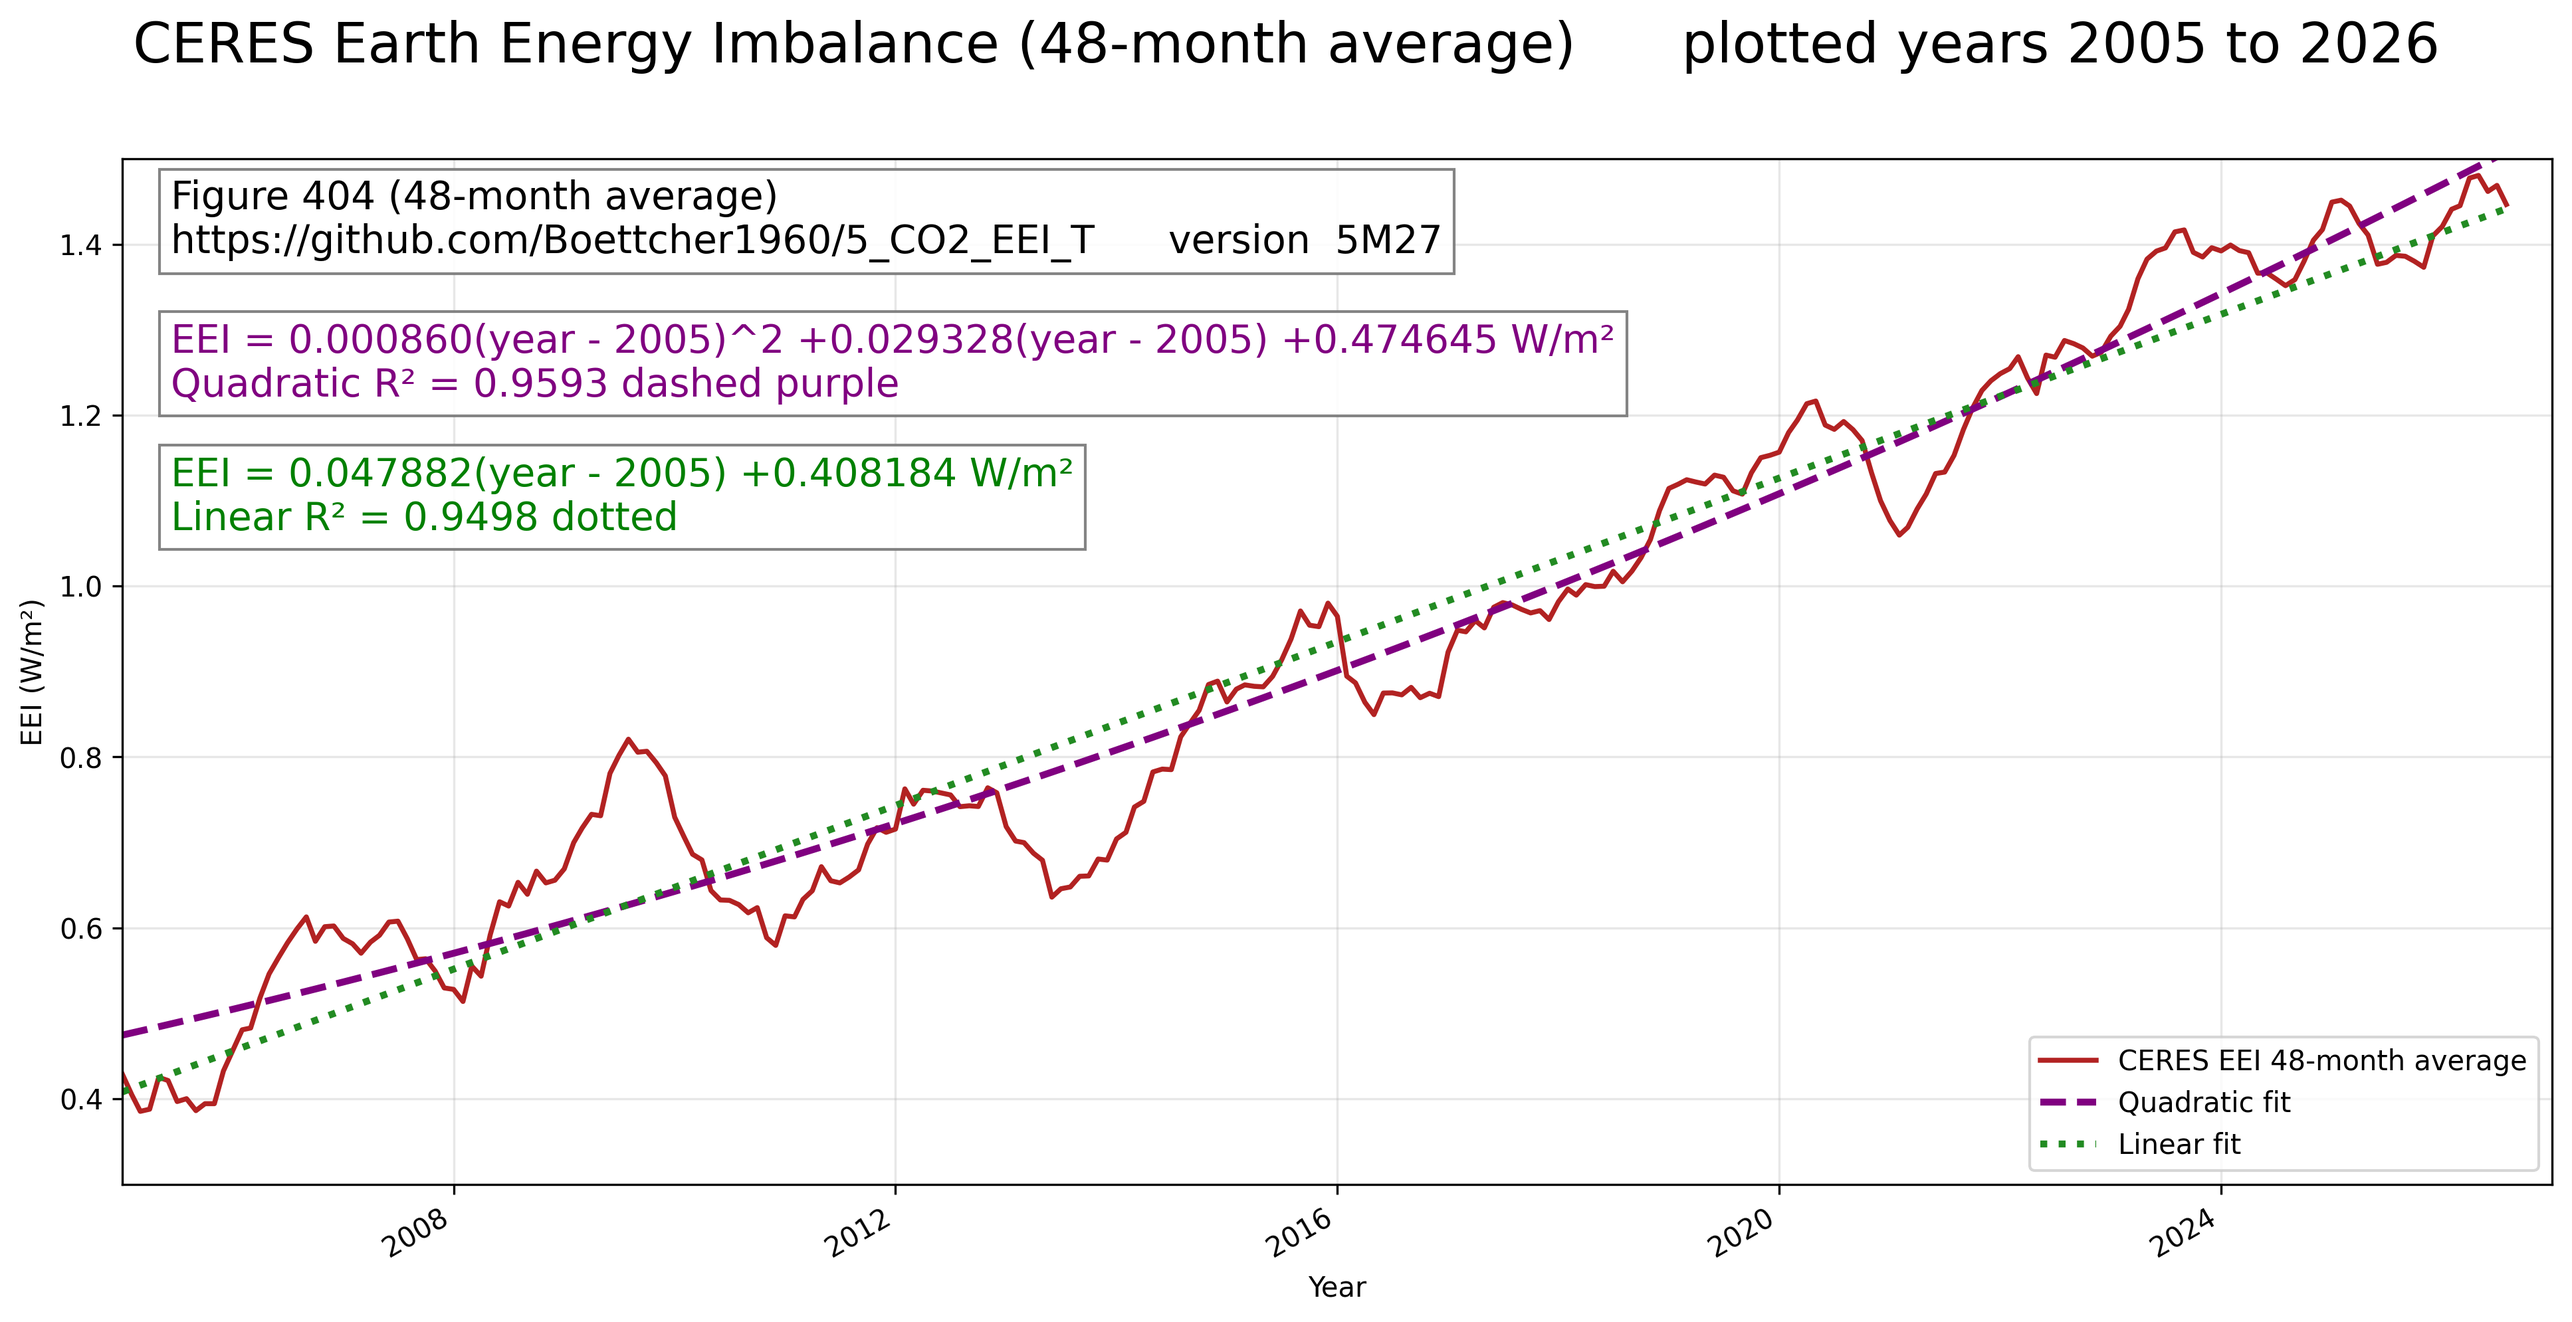
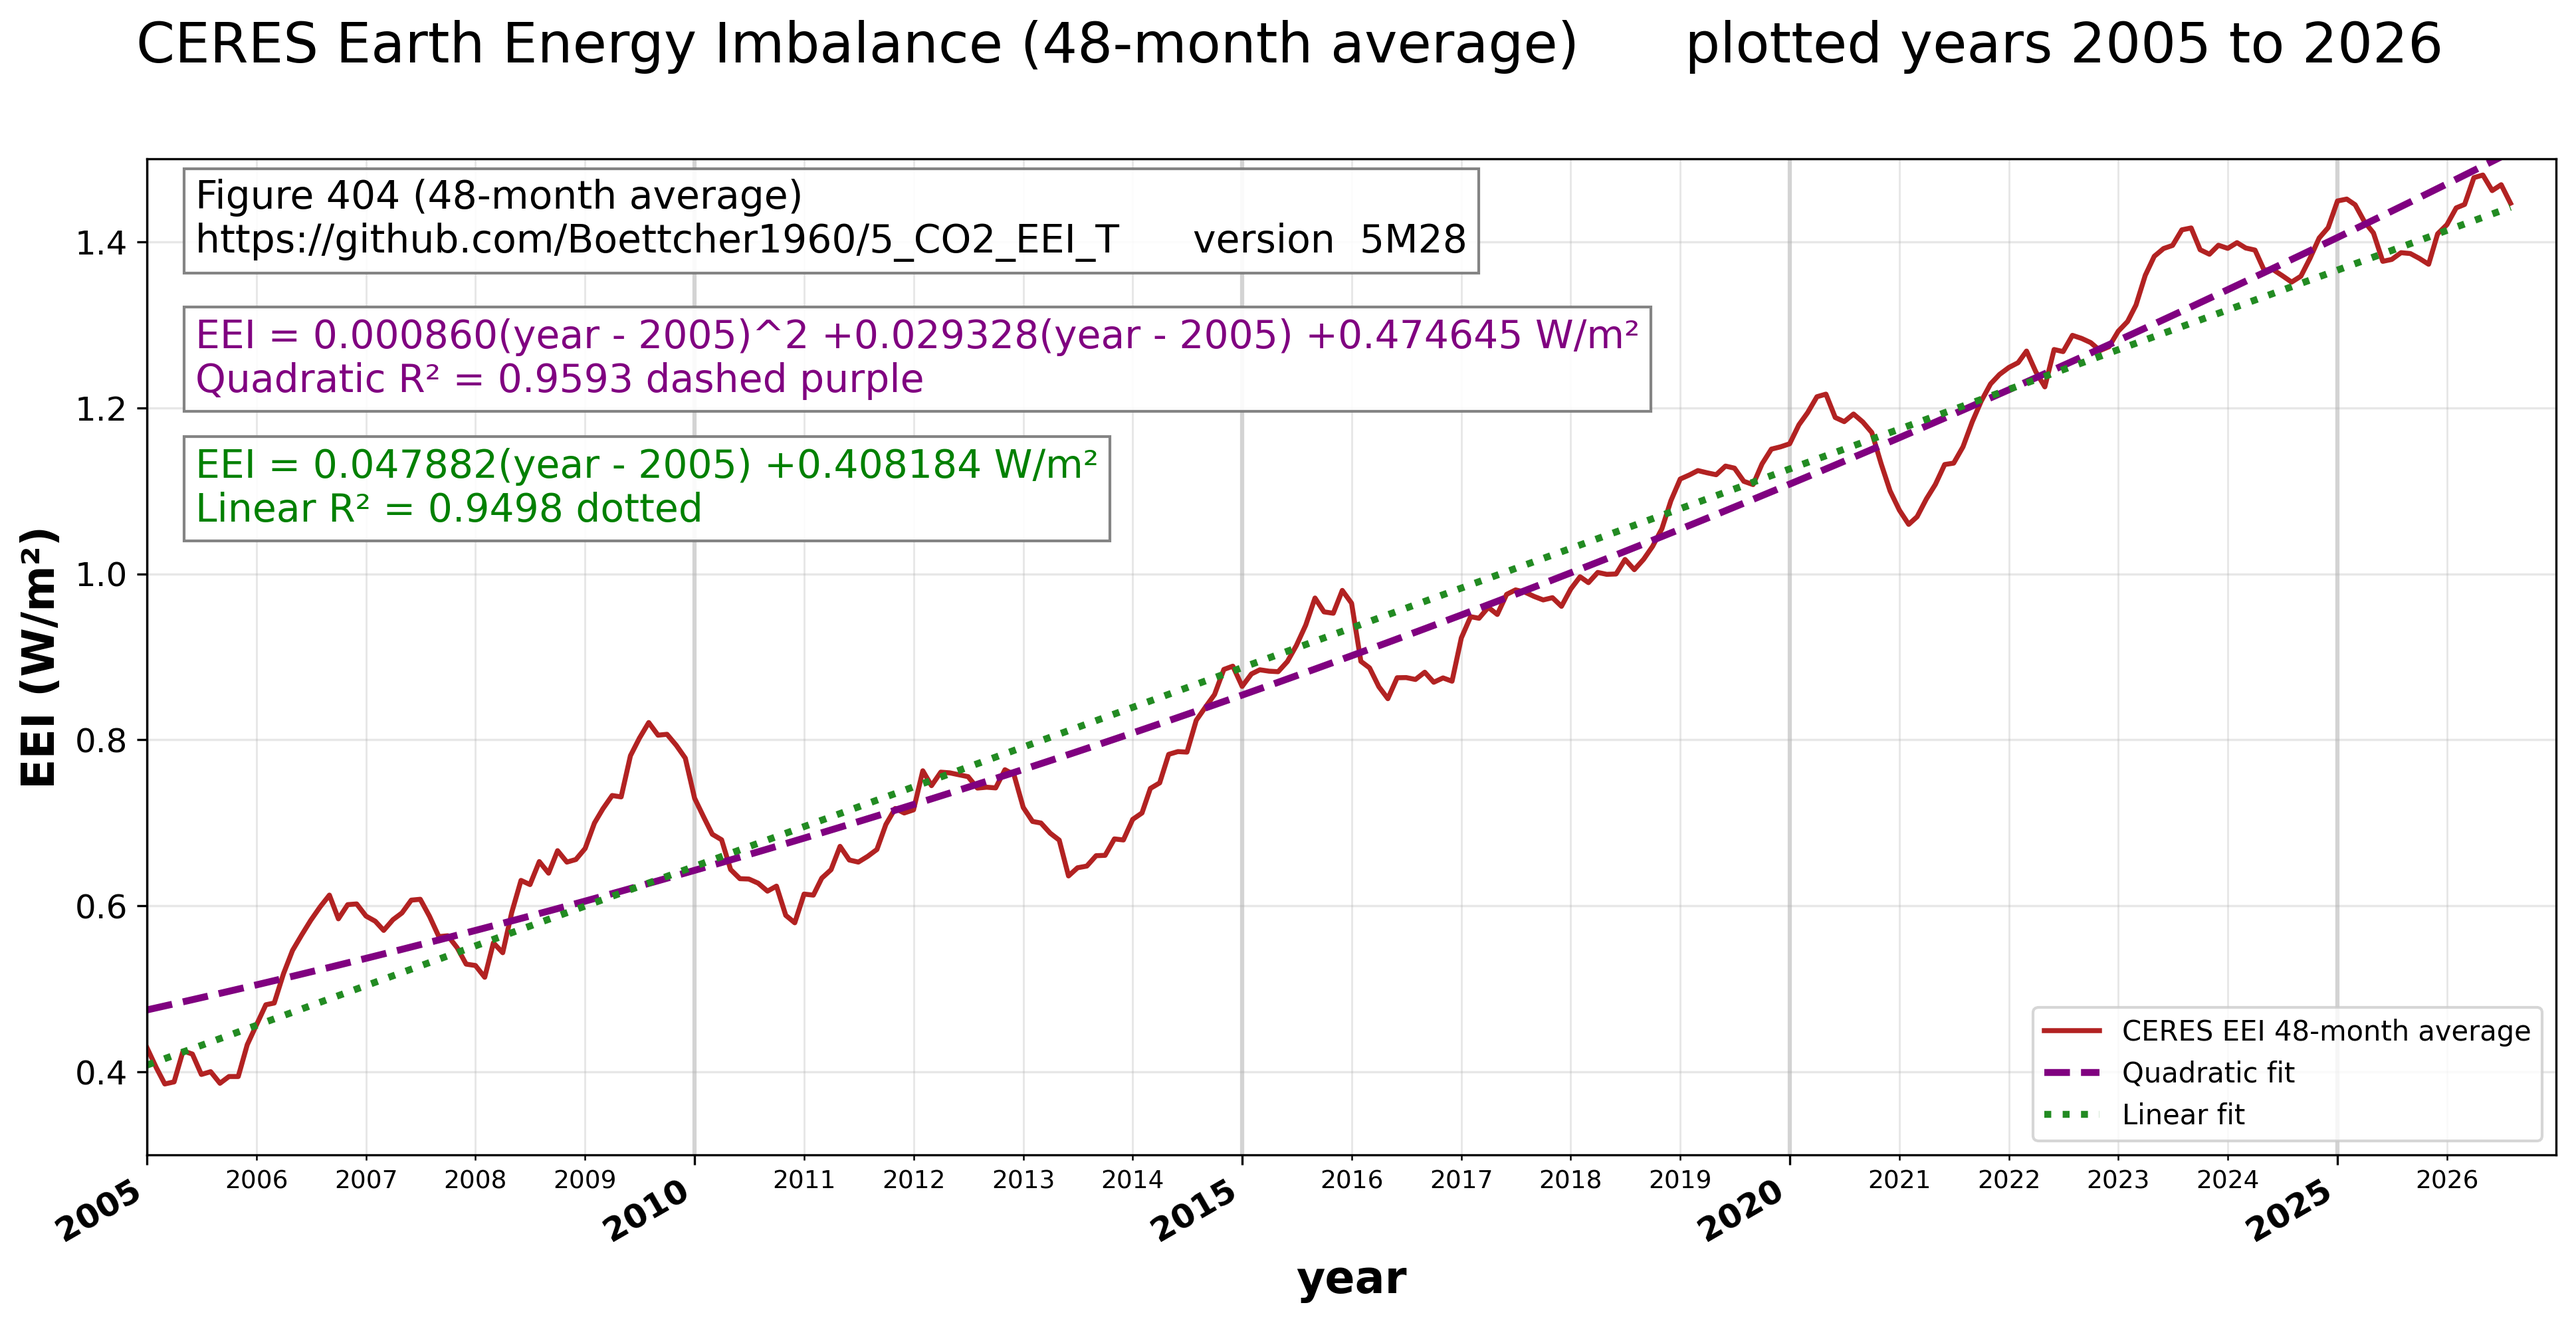
5M28

diff --git a/ceres.py b/ceres.py
@@ -1,6 +1,7 @@
 # ceres.py
 
 import matplotlib.pyplot as plt
+import matplotlib.dates as mdates
 import pandas as pd
 import numpy as np
 import os
@@ -700,10 +701,26 @@ def fig_404_eei_quadratic():
         y=1 - headline_margin_points / figure_height_points,
         va="top",
     )
-    ax.set_xlabel("Year")
-    ax.set_ylabel("EEI (W/m²)")
+    ax.set_xlabel("year", fontsize=16, fontweight="black")
+    ax.set_ylabel("EEI (W/m²)", fontsize=16, fontweight="bold")
+    ax.tick_params(axis="y", labelsize=12)
+    for label in ax.get_yticklabels():
+        label.set_fontweight("normal")
     ax.set_ylim(y_61min, y_61max)
-    ax.grid(True, alpha=0.3)
+    ax.xaxis.set_major_locator(mdates.YearLocator(5))
+    ax.xaxis.set_major_formatter(mdates.DateFormatter("%Y"))
+    ax.xaxis.set_minor_locator(mdates.YearLocator(1))
+    ax.xaxis.set_minor_formatter(mdates.DateFormatter("%Y"))
+    for label in ax.xaxis.get_majorticklabels():
+        label.set_fontweight("black")
+        label.set_fontsize(12)
+    for label in ax.xaxis.get_minorticklabels():
+        label.set_fontweight("normal")
+        label.set_fontsize(9)
+    ax.grid(True, axis="y", which="major", alpha=0.3)
+    ax.grid(True, axis="x", which="major", alpha=0.55, linewidth=1.5)
+    ax.grid(True, axis="x", which="minor", alpha=0.3, linewidth=0.7)
+    ax.tick_params(axis="x", which="minor", labelbottom=True)
     ax.legend(loc="best")
     ax.set_xlim(
         pd.Timestamp(year=x_anf, month=1, day=1),

diff --git a/main.py b/main.py
@@ -1,5 +1,5 @@
 # main.py
-v = "5M27" # make a separate new figure404 for play_61_EEI = 12 this is file work/61c_out_EEI.csv column EEI 
+v = "5M28" # make a separate new figure404 for play_61_EEI = 12 this is file work/61c_out_EEI.csv column EEI 
 #            print the quadratic equation for EEI inside figure404
 # https://github.com/Boettcher1960/5_CO2_EEI_T
 # ocean stratification https://bsky.app/profile/thomas-boettcher.bsky.social/post/3mj7zx7fzsc26
